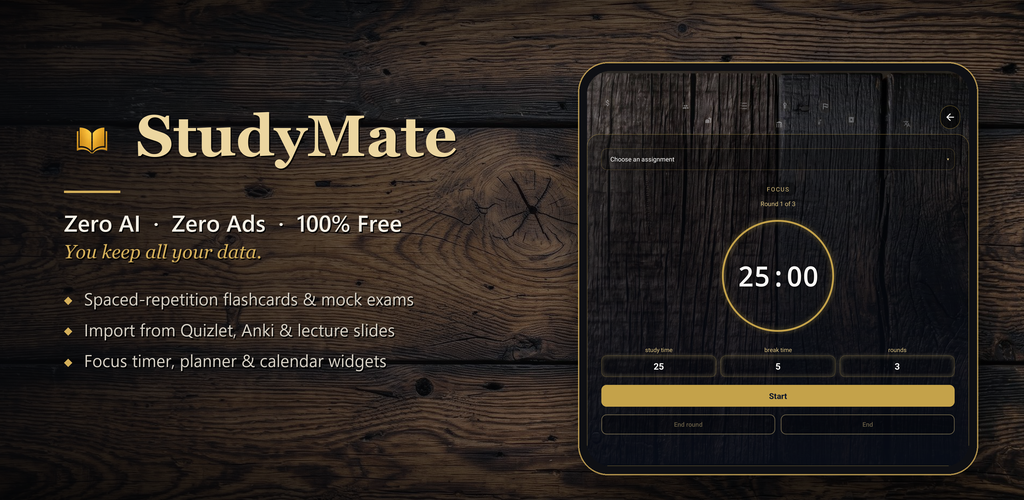
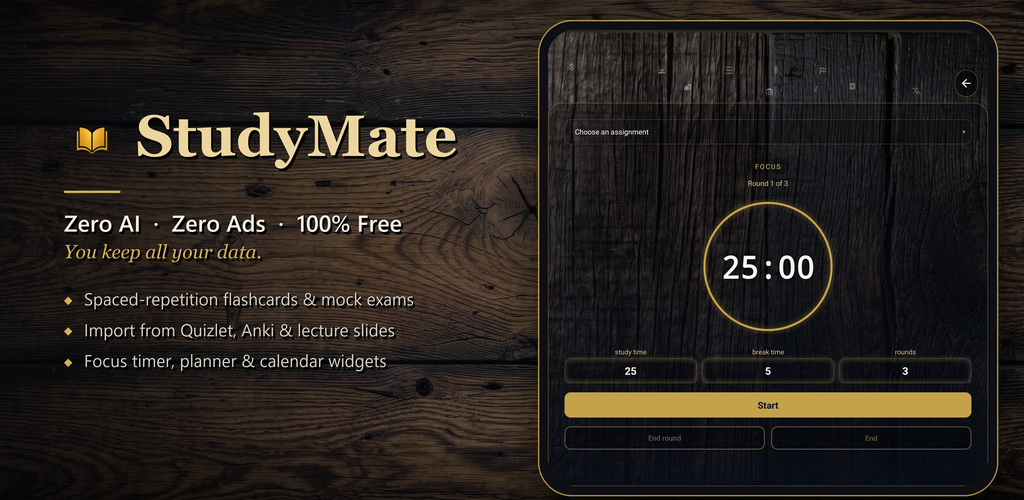
docs(store): finalize feature graphic V2b layout (increased device scale, stronger text shadow)

diff --git a/scripts/generate_feature_graphic_v2.py b/scripts/generate_feature_graphic_v2.py
@@ -69,21 +69,21 @@ canvas = Image.alpha_composite(canvas, fall)
 
 # ---------------------------------------------------------------- device (right)
 shot = Image.open(SHOT).convert('RGB')          # 2076 x 2152, Pixel Fold inner screen
-dev_w = 400
-bezel = 9
+dev_w = 460
+bezel = 10
 scr_w = dev_w - 2 * bezel
 scr_h = int(scr_w * shot.size[1] / shot.size[0])
 dev_h = scr_h + 2 * bezel
-dev_x = 578
-dev_y = 62                                       # bleeds off the bottom edge on purpose
-dev_r = 30
+dev_x = 538
+dev_y = 20                                       # bleeds off the bottom edge on purpose
+dev_r = 34
 
 # Shadow
 sh = Image.new('RGBA', (CW, CH))
 ImageDraw.Draw(sh).rounded_rectangle(
-    [s(dev_x + 6), s(dev_y + 18), s(dev_x + dev_w + 6), s(dev_y + dev_h + 18)],
-    radius=s(dev_r), fill=(0, 0, 0, 200))
-sh = sh.filter(ImageFilter.GaussianBlur(s(22)))
+    [s(dev_x + 6), s(dev_y + 18), s(dev_x + dev_w + 10), s(dev_y + dev_h + 24)],
+    radius=s(dev_r), fill=(0, 0, 0, 220))
+sh = sh.filter(ImageFilter.GaussianBlur(s(26)))
 canvas = Image.alpha_composite(canvas, sh)
 
 # Body + hairline gold rim
@@ -115,7 +115,7 @@ canvas.alpha_composite(sheen_masked, (s(dev_x + bezel), s(dev_y + bezel)))
 # ---------------------------------------------------------------- copy (left)
 d = ImageDraw.Draw(canvas)
 LX = 64
-COL_MAX = dev_x - LX - 40                         # usable text width
+COL_MAX = dev_x - LX - 20                         # usable text width
 
 f_title = font('georgiab.ttf', 58)
 f_tag = font('seguisb.ttf', 23)
@@ -133,9 +133,11 @@ def text(x, y_top, t, f, fill, shadow=True):
     ox, oy, tw, th = bbox(t, f)
     px, py = s(x) - ox, s(y_top) - oy
     if shadow:
-        d.text((px + s(1), py + s(1.5)), t, font=f, fill=(0, 0, 0, 170))
+        # Stronger multi-layered text shadow for pop
+        d.text((px + s(2), py + s(2.5)), t, font=f, fill=(0, 0, 0, 240))
+        d.text((px + s(1), py + s(1)), t, font=f, fill=(0, 0, 0, 180))
     d.text((px, py), t, font=f, fill=fill)
-    assert tw / S <= COL_MAX + 60, f'text too wide: {t!r} {tw / S:.0f}px'
+    assert tw / S <= COL_MAX + 80, f'text too wide: {t!r} {tw / S:.0f}px vs {COL_MAX + 80}'
     return y_top + th / S, tw / S
 
 
